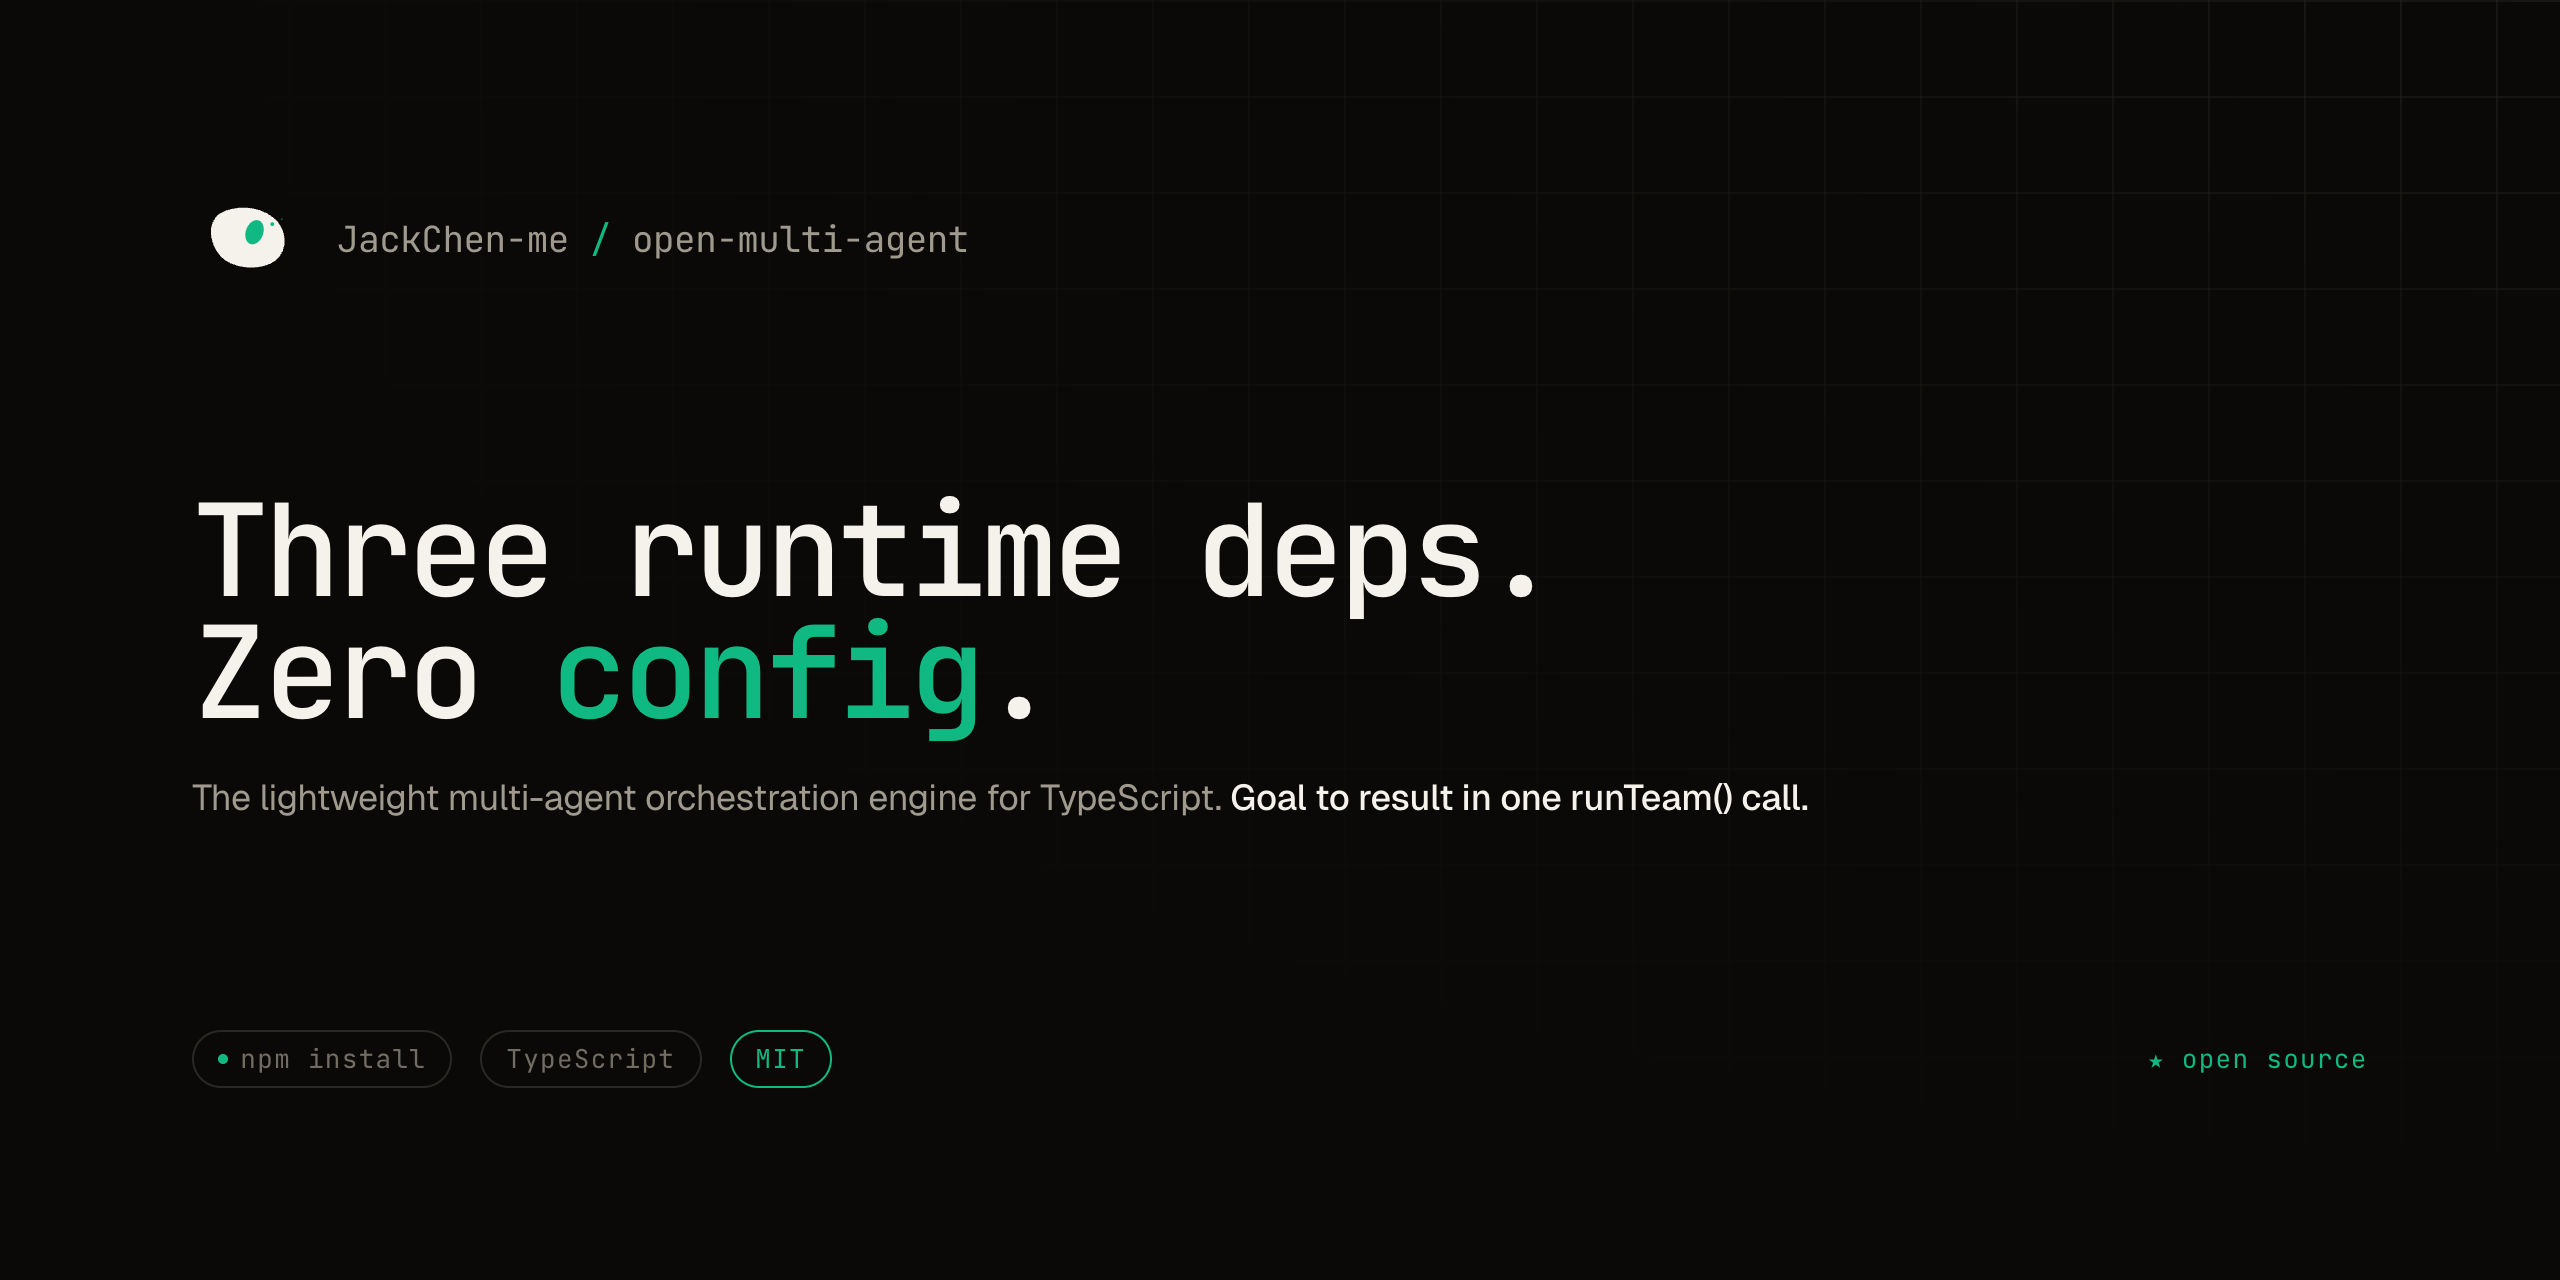
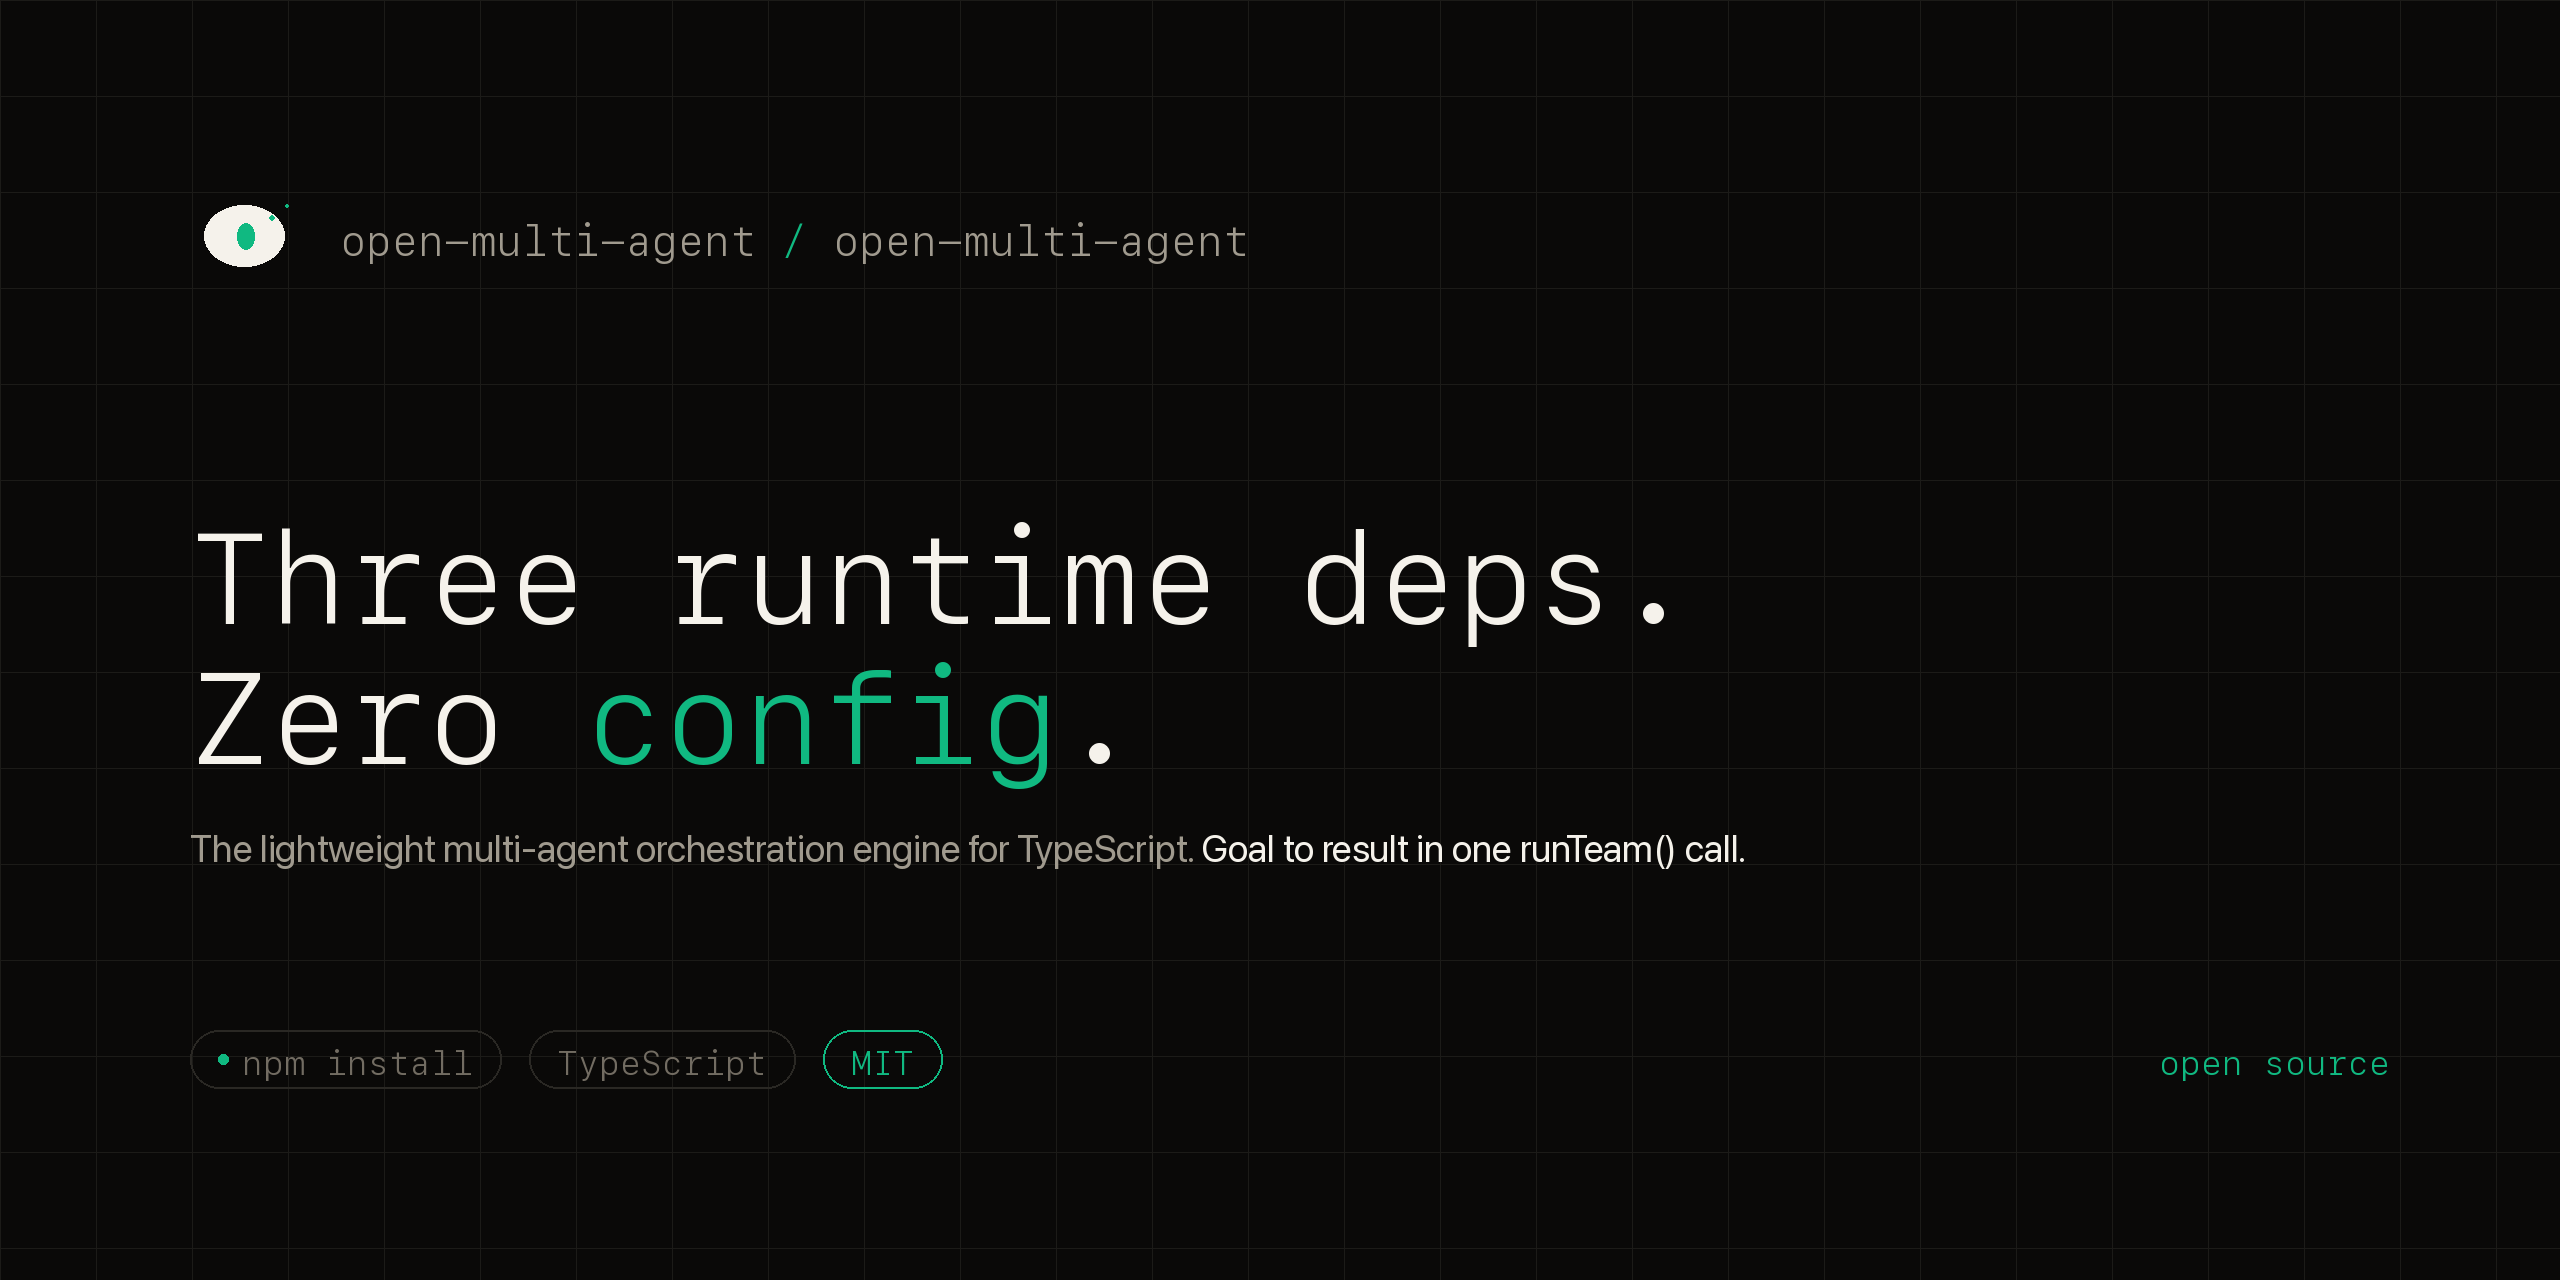
chore: migrate package to org scope
Prepare the @user/core@1.4.0 release and update GitHub/npm references for the org migration.

Pull request: chore: migrate package to org scope
## Summary

- Move repository references from `JackChen-me/open-multi-agent` to `open-multi-agent/open-multi-agent`
- Rename the npm package metadata to `@user/core`
- Bump the release version to `1.4.0`
- Update README/docs/examples to use the new official install path
- Keep the old package path documented as supported during the migration window

## Release note

This PR prepares the `@user/core@1.4.0` release. The npm package is not published yet and will be published after this PR is merged.

## Validation

- `npm run build`
- `npm test`
- `npm --cache /private/tmp/oma-npm-cache pack --dry-run`
- `git diff --check`

diff --git a/examples/integrations/with-vercel-ai-sdk/app/api/chat/route.ts b/examples/integrations/with-vercel-ai-sdk/app/api/chat/route.ts
@@ -1,7 +1,7 @@
 import { streamText, convertToModelMessages, type UIMessage } from 'ai'
 import { createOpenAICompatible } from '@ai-sdk/openai-compatible'
-import { OpenMultiAgent } from '@jackchen_me/open-multi-agent'
-import type { AgentConfig } from '@jackchen_me/open-multi-agent'
+import { OpenMultiAgent } from '@open-multi-agent/core'
+import type { AgentConfig } from '@open-multi-agent/core'
 
 export const maxDuration = 120
 

diff --git a/src/index.ts b/src/index.ts
@@ -1,10 +1,10 @@
 /**
  * @fileoverview open-multi-agent — public API surface.
  *
- * Import from `'open-multi-agent'` to access everything you need:
+ * Import from `'@open-multi-agent/core'` to access everything you need:
  *
  * ```ts
- * import { OpenMultiAgent, Agent, Team, defineTool } from 'open-multi-agent'
+ * import { OpenMultiAgent, Agent, Team, defineTool } from '@open-multi-agent/core'
  * ```
  *
  * ## Quickstart

diff --git a/examples/integrations/mcp-github.ts b/examples/integrations/mcp-github.ts
@@ -50,7 +50,7 @@ const agent = new Agent(
 
 try {
   const result = await agent.run(
-    'List the last 3 open issues in JackChen-me/open-multi-agent with title and number.',
+    'List the last 3 open issues in open-multi-agent/open-multi-agent with title and number.',
   )
 
   console.log(result.output)

diff --git a/examples/integrations/with-vercel-ai-sdk/next.config.ts b/examples/integrations/with-vercel-ai-sdk/next.config.ts
@@ -1,7 +1,7 @@
 import type { NextConfig } from 'next'
 
 const nextConfig: NextConfig = {
-  serverExternalPackages: ['@jackchen_me/open-multi-agent'],
+  serverExternalPackages: ['@open-multi-agent/core'],
 }
 
 export default nextConfig

diff --git a/src/agent/agent.ts b/src/agent/agent.ts
@@ -11,7 +11,7 @@
  *
  * @example
  * ```ts
- * import { Agent, ToolRegistry, ToolExecutor, registerBuiltInTools } from 'open-multi-agent'
+ * import { Agent, ToolRegistry, ToolExecutor, registerBuiltInTools } from '@open-multi-agent/core'
  *
  * const registry = new ToolRegistry()
  * registerBuiltInTools(registry)

diff --git a/tests/e2e/coordinator-dependency-widening.test.ts b/tests/e2e/coordinator-dependency-widening.test.ts
@@ -19,7 +19,7 @@
  * Requires: ANTHROPIC_API_KEY environment variable
  *
  * Reproducer: https://github.com/CodingBangboo/open-multi-agent/blob/planOnly_with_examples/examples/basics/plan-only-dag_stress_test.ts
- * Issue: https://github.com/JackChen-me/open-multi-agent/issues/208
+ * Issue: https://github.com/open-multi-agent/open-multi-agent/issues/208
  */
 import { describe, it, expect } from 'vitest'
 import { OpenMultiAgent } from '../../src/orchestrator/orchestrator.js'

diff --git a/README.md b/README.md
@@ -2,9 +2,9 @@
 
 <p align="center">
   <picture>
-    <source media="(prefers-color-scheme: dark)" srcset="https://raw.githubusercontent.com/JackChen-me/open-multi-agent/main/.github/brand/logo-mark-dark.svg">
-    <source media="(prefers-color-scheme: light)" srcset="https://raw.githubusercontent.com/JackChen-me/open-multi-agent/main/.github/brand/logo-mark-light.svg">
-    <img alt="Open Multi-Agent" src="https://raw.githubusercontent.com/JackChen-me/open-multi-agent/main/.github/brand/logo-mark-light.svg" width="96">
+    <source media="(prefers-color-scheme: dark)" srcset="https://raw.githubusercontent.com/open-multi-agent/open-multi-agent/main/.github/brand/logo-mark-dark.svg">
+    <source media="(prefers-color-scheme: light)" srcset="https://raw.githubusercontent.com/open-multi-agent/open-multi-agent/main/.github/brand/logo-mark-light.svg">
+    <img alt="Open Multi-Agent" src="https://raw.githubusercontent.com/open-multi-agent/open-multi-agent/main/.github/brand/logo-mark-light.svg" width="96">
   </picture>
 </p>
 
@@ -18,18 +18,18 @@
 </p>
 
 <p align="center">
-  <a href="https://www.npmjs.com/package/@jackchen_me/open-multi-agent"><img src="https://img.shields.io/npm/v/@jackchen_me/open-multi-agent" alt="npm version"></a>
-  <a href="https://github.com/JackChen-me/open-multi-agent/actions/workflows/ci.yml"><img src="https://github.com/JackChen-me/open-multi-agent/actions/workflows/ci.yml/badge.svg" alt="CI"></a>
-  <a href="./LICENSE"><img src="https://img.shields.io/github/license/JackChen-me/open-multi-agent" alt="license"></a>
+  <a href="https://www.npmjs.com/package/@open-multi-agent/core"><img src="https://img.shields.io/npm/v/@open-multi-agent/core" alt="npm version"></a>
+  <a href="https://github.com/open-multi-agent/open-multi-agent/actions/workflows/ci.yml"><img src="https://github.com/open-multi-agent/open-multi-agent/actions/workflows/ci.yml/badge.svg" alt="CI"></a>
+  <a href="./LICENSE"><img src="https://img.shields.io/badge/license-MIT-green" alt="MIT License"></a>
   <a href="https://www.typescriptlang.org/"><img src="https://img.shields.io/badge/TypeScript-5.6-blue" alt="TypeScript"></a>
-  <a href="https://codecov.io/gh/JackChen-me/open-multi-agent"><img src="https://codecov.io/gh/JackChen-me/open-multi-agent/graph/badge.svg" alt="codecov"></a>
-  <a href="https://github.com/JackChen-me/open-multi-agent/blob/main/package.json"><img src="https://img.shields.io/badge/runtime_deps-3-brightgreen" alt="runtime deps"></a>
-  <a href="https://github.com/JackChen-me/open-multi-agent/stargazers"><img src="https://img.shields.io/github/stars/JackChen-me/open-multi-agent" alt="GitHub stars"></a>
-  <a href="https://github.com/JackChen-me/open-multi-agent/network/members"><img src="https://img.shields.io/github/forks/JackChen-me/open-multi-agent" alt="GitHub forks"></a>
+  <a href="https://codecov.io/gh/open-multi-agent/open-multi-agent"><img src="https://codecov.io/gh/open-multi-agent/open-multi-agent/graph/badge.svg" alt="codecov"></a>
+  <a href="https://github.com/open-multi-agent/open-multi-agent/blob/main/package.json"><img src="https://img.shields.io/badge/runtime_deps-3-brightgreen" alt="runtime deps"></a>
+  <a href="https://github.com/open-multi-agent/open-multi-agent/stargazers"><img src="https://img.shields.io/github/stars/open-multi-agent/open-multi-agent" alt="GitHub stars"></a>
+  <a href="https://github.com/open-multi-agent/open-multi-agent/network/members"><img src="https://img.shields.io/github/forks/open-multi-agent/open-multi-agent" alt="GitHub forks"></a>
 </p>
 
 <p align="center">
-  <img src="https://raw.githubusercontent.com/JackChen-me/open-multi-agent/main/.github/brand/demo-dashboard-hero.gif" alt="Animated task DAG dashboard: coordinator decomposes a goal into tasks, executes them in parallel, and synthesizes the result — with token breakdown and agent output log" width="960" height="456" loading="eager">
+  <img src="https://raw.githubusercontent.com/open-multi-agent/open-multi-agent/main/.github/brand/demo-dashboard-hero.gif" alt="Animated task DAG dashboard: coordinator decomposes a goal into tasks, executes them in parallel, and synthesizes the result — with token breakdown and agent output log" width="960" height="456" loading="eager">
 </p>
 
 <br />
@@ -42,6 +42,9 @@
 
 `open-multi-agent` is a multi-agent orchestration framework for TypeScript backends. Give it a goal; a coordinator agent decomposes it into a task DAG, parallelizes independents, and synthesizes the result. Three runtime dependencies, drops into any Node.js backend.
 
+> **Package update:** the official npm package is now `@open-multi-agent/core`.
+> The previous package, `@jackchen_me/open-multi-agent`, remains supported during the migration window.
+
 > **Your engineers describe the goal, not the graph.**
 
 ## Quick Start
@@ -51,11 +54,11 @@ Requires Node.js >= 18.
 ### Use it in your project
 
 ```bash
-npm install @jackchen_me/open-multi-agent
+npm install @open-multi-agent/core
 ```
 
 ```typescript
-import { OpenMultiAgent, type AgentConfig } from '@jackchen_me/open-multi-agent'
+import { OpenMultiAgent, type AgentConfig } from '@open-multi-agent/core'
 
 const agents: AgentConfig[] = [
   { name: 'architect', model: 'claude-sonnet-4-6', systemPrompt: 'Design clean API contracts.', tools: ['file_write'] },
@@ -77,7 +80,7 @@ console.log(result.success, result.totalTokenUsage.output_tokens)
 ### Run an example locally
 
 ```bash
-git clone https://github.com/JackChen-me/open-multi-agent && cd open-multi-agent
+git clone https://github.com/open-multi-agent/open-multi-agent && cd open-multi-agent
 npm install
 export ANTHROPIC_API_KEY=sk-...
 npx tsx examples/basics/team-collaboration.ts
@@ -188,14 +191,14 @@ A quick router. Mechanism breakdown follows.
 - **[temodar-agent](https://github.com/xeloxa/temodar-agent)** (~60 stars). WordPress security analysis platform by [Ali Sünbül](https://github.com/xeloxa). Uses our built-in tools (`bash`, `file_*`, `grep`) directly inside a Docker runtime. Confirmed production use.
 - **Cybersecurity SOC (home lab).** A private setup running Qwen 2.5 + DeepSeek Coder entirely offline via Ollama, building an autonomous SOC pipeline on Wazuh + Proxmox. Early user, not yet public.
 
-Using `open-multi-agent` in production or a side project? [Open a discussion](https://github.com/JackChen-me/open-multi-agent/discussions) and we will list it here.
+Using `open-multi-agent` in production or a side project? [Open a discussion](https://github.com/open-multi-agent/open-multi-agent/discussions) and we will list it here.
 
 ### Integrations
 
 - **[Engram](https://www.engram-memory.com)** — "Git for AI memory." Syncs knowledge across agents instantly and flags conflicts. ([repo](https://github.com/Agentscreator/engram-memory))
 - **[@agentsonar/oma](https://github.com/agentsonar/agentsonar-oma)** — Sidecar detecting cross-run delegation cycles, repetition, and rate bursts.
 
-Built an integration? [Open a discussion](https://github.com/JackChen-me/open-multi-agent/discussions) to get listed.
+Built an integration? [Open a discussion](https://github.com/open-multi-agent/open-multi-agent/discussions) to get listed.
 
 ### Featured partner
 
@@ -296,12 +299,12 @@ Issues, feature requests, and PRs are welcome. Some areas where contributions wo
 
 - **Production examples.** Real-world end-to-end workflows. See [`examples/production/README.md`](./examples/production/README.md) for the acceptance criteria and submission format.
 - **Documentation.** Guides, tutorials, and API docs.
-- **Translations.** Help translate this README into other languages. [Open a PR](https://github.com/JackChen-me/open-multi-agent/pulls).
+- **Translations.** Help translate this README into other languages. [Open a PR](https://github.com/open-multi-agent/open-multi-agent/pulls).
 
 ## Contributors
 
-<a href="https://github.com/JackChen-me/open-multi-agent/graphs/contributors">
-  <img src="https://contrib.rocks/image?repo=JackChen-me/open-multi-agent&max=100&v=20260507" />
+<a href="https://github.com/open-multi-agent/open-multi-agent/graphs/contributors">
+  <img src="https://contrib.rocks/image?repo=open-multi-agent/open-multi-agent&max=100&v=20260507" />
 </a>
 
 <details>
@@ -357,11 +360,11 @@ Issues, feature requests, and PRs are welcome. Some areas where contributions wo
 
 ## Star History
 
-<a href="https://star-history.com/#JackChen-me/open-multi-agent&Date">
+<a href="https://star-history.com/#open-multi-agent/open-multi-agent&Date">
  <picture>
-   <source media="(prefers-color-scheme: dark)" srcset="https://api.star-history.com/svg?repos=JackChen-me/open-multi-agent&type=Date&theme=dark&v=20260425" />
-   <source media="(prefers-color-scheme: light)" srcset="https://api.star-history.com/svg?repos=JackChen-me/open-multi-agent&type=Date&v=20260425" />
-   <img alt="Star History Chart" src="https://api.star-history.com/svg?repos=JackChen-me/open-multi-agent&type=Date&v=20260425" />
+   <source media="(prefers-color-scheme: dark)" srcset="https://api.star-history.com/svg?repos=open-multi-agent/open-multi-agent&type=Date&theme=dark&v=20260425" />
+   <source media="(prefers-color-scheme: light)" srcset="https://api.star-history.com/svg?repos=open-multi-agent/open-multi-agent&type=Date&v=20260425" />
+   <img alt="Star History Chart" src="https://api.star-history.com/svg?repos=open-multi-agent/open-multi-agent&type=Date&v=20260425" />
  </picture>
 </a>
 

diff --git a/README_zh.md b/README_zh.md
@@ -2,9 +2,9 @@
 
 <p align="center">
   <picture>
-    <source media="(prefers-color-scheme: dark)" srcset="https://raw.githubusercontent.com/JackChen-me/open-multi-agent/main/.github/brand/logo-mark-dark.svg">
-    <source media="(prefers-color-scheme: light)" srcset="https://raw.githubusercontent.com/JackChen-me/open-multi-agent/main/.github/brand/logo-mark-light.svg">
-    <img alt="Open Multi-Agent" src="https://raw.githubusercontent.com/JackChen-me/open-multi-agent/main/.github/brand/logo-mark-light.svg" width="96">
+    <source media="(prefers-color-scheme: dark)" srcset="https://raw.githubusercontent.com/open-multi-agent/open-multi-agent/main/.github/brand/logo-mark-dark.svg">
+    <source media="(prefers-color-scheme: light)" srcset="https://raw.githubusercontent.com/open-multi-agent/open-multi-agent/main/.github/brand/logo-mark-light.svg">
+    <img alt="Open Multi-Agent" src="https://raw.githubusercontent.com/open-multi-agent/open-multi-agent/main/.github/brand/logo-mark-light.svg" width="96">
   </picture>
 </p>
 
@@ -18,18 +18,18 @@
 </p>
 
 <p align="center">
-  <a href="https://www.npmjs.com/package/@jackchen_me/open-multi-agent"><img src="https://img.shields.io/npm/v/@jackchen_me/open-multi-agent" alt="npm version"></a>
-  <a href="https://github.com/JackChen-me/open-multi-agent/actions/workflows/ci.yml"><img src="https://github.com/JackChen-me/open-multi-agent/actions/workflows/ci.yml/badge.svg" alt="CI"></a>
-  <a href="./LICENSE"><img src="https://img.shields.io/github/license/JackChen-me/open-multi-agent" alt="license"></a>
+  <a href="https://www.npmjs.com/package/@open-multi-agent/core"><img src="https://img.shields.io/npm/v/@open-multi-agent/core" alt="npm version"></a>
+  <a href="https://github.com/open-multi-agent/open-multi-agent/actions/workflows/ci.yml"><img src="https://github.com/open-multi-agent/open-multi-agent/actions/workflows/ci.yml/badge.svg" alt="CI"></a>
+  <a href="./LICENSE"><img src="https://img.shields.io/badge/license-MIT-green" alt="MIT License"></a>
   <a href="https://www.typescriptlang.org/"><img src="https://img.shields.io/badge/TypeScript-5.6-blue" alt="TypeScript"></a>
-  <a href="https://codecov.io/gh/JackChen-me/open-multi-agent"><img src="https://codecov.io/gh/JackChen-me/open-multi-agent/graph/badge.svg" alt="codecov"></a>
-  <a href="https://github.com/JackChen-me/open-multi-agent/blob/main/package.json"><img src="https://img.shields.io/badge/runtime_deps-3-brightgreen" alt="runtime deps"></a>
-  <a href="https://github.com/JackChen-me/open-multi-agent/stargazers"><img src="https://img.shields.io/github/stars/JackChen-me/open-multi-agent" alt="GitHub stars"></a>
-  <a href="https://github.com/JackChen-me/open-multi-agent/network/members"><img src="https://img.shields.io/github/forks/JackChen-me/open-multi-agent" alt="GitHub forks"></a>
+  <a href="https://codecov.io/gh/open-multi-agent/open-multi-agent"><img src="https://codecov.io/gh/open-multi-agent/open-multi-agent/graph/badge.svg" alt="codecov"></a>
+  <a href="https://github.com/open-multi-agent/open-multi-agent/blob/main/package.json"><img src="https://img.shields.io/badge/runtime_deps-3-brightgreen" alt="runtime deps"></a>
+  <a href="https://github.com/open-multi-agent/open-multi-agent/stargazers"><img src="https://img.shields.io/github/stars/open-multi-agent/open-multi-agent" alt="GitHub stars"></a>
+  <a href="https://github.com/open-multi-agent/open-multi-agent/network/members"><img src="https://img.shields.io/github/forks/open-multi-agent/open-multi-agent" alt="GitHub forks"></a>
 </p>
 
 <p align="center">
-  <img src="https://raw.githubusercontent.com/JackChen-me/open-multi-agent/main/.github/brand/demo-dashboard-hero.gif" alt="Animated task DAG dashboard: coordinator decomposes a goal into tasks, executes them in parallel, and synthesizes the result — with token breakdown and agent output log" width="960" height="456" loading="eager">
+  <img src="https://raw.githubusercontent.com/open-multi-agent/open-multi-agent/main/.github/brand/demo-dashboard-hero.gif" alt="Animated task DAG dashboard: coordinator decomposes a goal into tasks, executes them in parallel, and synthesizes the result — with token breakdown and agent output log" width="960" height="456" loading="eager">
 </p>
 
 <br />
@@ -42,6 +42,9 @@
 
 `open-multi-agent` 是面向 TypeScript 后端的多智能体编排框架。给定一个目标，协调者 agent 会将其拆解为任务 DAG，并行执行独立任务，合成最终结果。仅 3 个运行时依赖，可直接嵌入任意现有 Node.js 后端。
 
+> **包名更新：** 官方 npm 包已迁移到 `@open-multi-agent/core`。
+> 旧包 `@jackchen_me/open-multi-agent` 在迁移窗口内继续支持。
+
 > **工程师只描述目标，不画任务图。**
 
 ## 快速开始
@@ -51,11 +54,11 @@
 ### 在你的项目里使用
 
 ```bash
-npm install @jackchen_me/open-multi-agent
+npm install @open-multi-agent/core
 ```
 
 ```typescript
-import { OpenMultiAgent, type AgentConfig } from '@jackchen_me/open-multi-agent'
+import { OpenMultiAgent, type AgentConfig } from '@open-multi-agent/core'
 
 const agents: AgentConfig[] = [
   { name: 'architect', model: 'claude-sonnet-4-6', systemPrompt: 'Design clean API contracts.', tools: ['file_write'] },
@@ -77,7 +80,7 @@ console.log(result.success, result.totalTokenUsage.output_tokens)
 ### 本地试跑
 
 ```bash
-git clone https://github.com/JackChen-me/open-multi-agent && cd open-multi-agent
+git clone https://github.com/open-multi-agent/open-multi-agent && cd open-multi-agent
 npm install
 export ANTHROPIC_API_KEY=sk-...
 npx tsx examples/basics/team-collaboration.ts
@@ -188,14 +191,14 @@ Shell 和 CI 场景使用 JSON-first 的 `oma` 命令行工具。详见 [docs/cl
 - **[temodar-agent](https://github.com/xeloxa/temodar-agent)**（约 60 stars）。WordPress 安全分析平台，作者 [Ali Sünbül](https://github.com/xeloxa)。在 Docker runtime 里直接用我们的内置工具（`bash`、`file_*`、`grep`）。已确认生产环境使用。
 - **家用服务器 Cybersecurity SOC。** 本地完全离线跑 Qwen 2.5 + DeepSeek Coder（通过 Ollama），在 Wazuh + Proxmox 上搭自主 SOC 流水线。早期用户，未公开。
 
-如果在生产或 side project 中使用了 `open-multi-agent`，[请开个 Discussion](https://github.com/JackChen-me/open-multi-agent/discussions)，我们会将其列在这里。
+如果在生产或 side project 中使用了 `open-multi-agent`，[请开个 Discussion](https://github.com/open-multi-agent/open-multi-agent/discussions)，我们会将其列在这里。
 
 ### 集成
 
 - **[Engram](https://www.engram-memory.com)** — "Git for AI memory." Syncs knowledge across agents instantly and flags conflicts. ([repo](https://github.com/Agentscreator/engram-memory))
 - **[@agentsonar/oma](https://github.com/agentsonar/agentsonar-oma)** — Sidecar detecting cross-run delegation cycles, repetition, and rate bursts.
 
-做了 `open-multi-agent` 集成？[开个 Discussion](https://github.com/JackChen-me/open-multi-agent/discussions)，我们会将其列在这里。
+做了 `open-multi-agent` 集成？[开个 Discussion](https://github.com/open-multi-agent/open-multi-agent/discussions)，我们会将其列在这里。
 
 ### Featured partner
 
@@ -297,12 +300,12 @@ Issue、feature request、PR 都欢迎。特别欢迎以下方面的贡献：
 
 - **生产级示例。** 端到端跑通的真实场景工作流。收录条件和提交格式见 [`examples/production/README.md`](./examples/production/README.md)。
 - **文档。** 指南、教程、API 文档。
-- **翻译。** 把这份 README 翻译成其他语言。[提个 PR](https://github.com/JackChen-me/open-multi-agent/pulls)。
+- **翻译。** 把这份 README 翻译成其他语言。[提个 PR](https://github.com/open-multi-agent/open-multi-agent/pulls)。
 
 ## 贡献者
 
-<a href="https://github.com/JackChen-me/open-multi-agent/graphs/contributors">
-  <img src="https://contrib.rocks/image?repo=JackChen-me/open-multi-agent&max=100&v=20260507" />
+<a href="https://github.com/open-multi-agent/open-multi-agent/graphs/contributors">
+  <img src="https://contrib.rocks/image?repo=open-multi-agent/open-multi-agent&max=100&v=20260507" />
 </a>
 
 <details>
@@ -358,11 +361,11 @@ Issue、feature request、PR 都欢迎。特别欢迎以下方面的贡献：
 
 ## Star 趋势
 
-<a href="https://star-history.com/#JackChen-me/open-multi-agent&Date">
+<a href="https://star-history.com/#open-multi-agent/open-multi-agent&Date">
  <picture>
-   <source media="(prefers-color-scheme: dark)" srcset="https://api.star-history.com/svg?repos=JackChen-me/open-multi-agent&type=Date&theme=dark&v=20260425" />
-   <source media="(prefers-color-scheme: light)" srcset="https://api.star-history.com/svg?repos=JackChen-me/open-multi-agent&type=Date&v=20260425" />
-   <img alt="Star History Chart" src="https://api.star-history.com/svg?repos=JackChen-me/open-multi-agent&type=Date&v=20260425" />
+   <source media="(prefers-color-scheme: dark)" srcset="https://api.star-history.com/svg?repos=open-multi-agent/open-multi-agent&type=Date&theme=dark&v=20260425" />
+   <source media="(prefers-color-scheme: light)" srcset="https://api.star-history.com/svg?repos=open-multi-agent/open-multi-agent&type=Date&v=20260425" />
+   <img alt="Star History Chart" src="https://api.star-history.com/svg?repos=open-multi-agent/open-multi-agent&type=Date&v=20260425" />
  </picture>
 </a>
 

diff --git a/.github/CONTRIBUTING.md b/.github/CONTRIBUTING.md
@@ -5,7 +5,7 @@ Thanks for your interest in contributing to Open Multi-Agent! This guide covers 
 ## Setup
 
 ```bash
-git clone https://github.com/JackChen-me/open-multi-agent.git
+git clone https://github.com/open-multi-agent/open-multi-agent.git
 cd open-multi-agent
 npm install
 ```
@@ -65,7 +65,7 @@ See the [README](../README.md#architecture) for an architecture diagram. Key ent
 
 ## Where to Contribute
 
-Check the [issues](https://github.com/JackChen-me/open-multi-agent/issues) page. Issues labeled `good first issue` are scoped and approachable. Issues labeled `help wanted` are larger but well-defined.
+Check the [issues](https://github.com/open-multi-agent/open-multi-agent/issues) page. Issues labeled `good first issue` are scoped and approachable. Issues labeled `help wanted` are larger but well-defined.
 
 ## License
 

diff --git a/CLAUDE.md b/CLAUDE.md
@@ -54,7 +54,7 @@ This is the framework's key feature. When `runTeam()` is called:
 | Utils | `utils/semaphore.ts`, `utils/tokens.ts`, `utils/keywords.ts`, `utils/trace.ts` | Concurrency primitive, token accounting, keyword helpers, trace plumbing |
 | Errors | `errors.ts` | Shared error types |
 | Types | `types.ts` | All interfaces in one file to avoid circular deps |
-| Exports | `index.ts` (root, `'open-multi-agent'`), `mcp.ts` (subpath, `'open-multi-agent/mcp'`) | Public API surface; MCP integration is a separate entry point so non-MCP users don't pay the import cost |
+| Exports | `index.ts` (root, `'@open-multi-agent/core'`), `mcp.ts` (subpath, `'@open-multi-agent/core/mcp'`) | Public API surface; MCP integration is a separate entry point so non-MCP users don't pay the import cost |
 
 ### Agent Conversation Loop (AgentRunner)
 
@@ -98,7 +98,7 @@ Optional `maxRetries`, `retryDelayMs`, `retryBackoff` on task config (used via `
 
 ### MCP Integration
 
-`connectMCPTools()` (in `tool/mcp.ts`) bridges Model Context Protocol servers into the `ToolRegistry`. Imported lazily and exposed via the dedicated `open-multi-agent/mcp` package subpath (`src/mcp.ts`) so users who don't need MCP don't load `@modelcontextprotocol/sdk`.
+`connectMCPTools()` (in `tool/mcp.ts`) bridges Model Context Protocol servers into the `ToolRegistry`. Imported lazily and exposed via the dedicated `@open-multi-agent/core/mcp` package subpath (`src/mcp.ts`) so users who don't need MCP don't load `@modelcontextprotocol/sdk`.
 
 ### Loop Detection
 

diff --git a/docs/tool-configuration.md b/docs/tool-configuration.md
@@ -49,7 +49,7 @@ Two ways to give an agent a tool that is not in the built-in set.
 **Inject at config time** via `customTools` on `AgentConfig`. Good when the orchestrator wires up tools centrally. Tools defined here bypass preset/allowlist filtering but still respect `disallowedTools`.
 
 ```typescript
-import { defineTool } from '@jackchen_me/open-multi-agent'
+import { defineTool } from '@open-multi-agent/core'
 import { z } from 'zod'
 
 const weatherTool = defineTool({
@@ -130,7 +130,7 @@ const agent: AgentConfig = {
 `open-multi-agent` can connect to stdio MCP servers and expose their tools directly to agents.
 
 ```typescript
-import { connectMCPTools } from '@jackchen_me/open-multi-agent/mcp'
+import { connectMCPTools } from '@open-multi-agent/core/mcp'
 
 const { tools, disconnect } = await connectMCPTools({
   command: 'npx',

diff --git a/docs/cli.md b/docs/cli.md
@@ -9,7 +9,7 @@ It does **not** provide an interactive REPL, working-directory injection into to
 After installing the package, the binary is on `PATH` when using `npx` or a local `node_modules/.bin`:
 
 ```bash
-npm install @jackchen_me/open-multi-agent
+npm install @open-multi-agent/core
 npx oma help
 ```
 